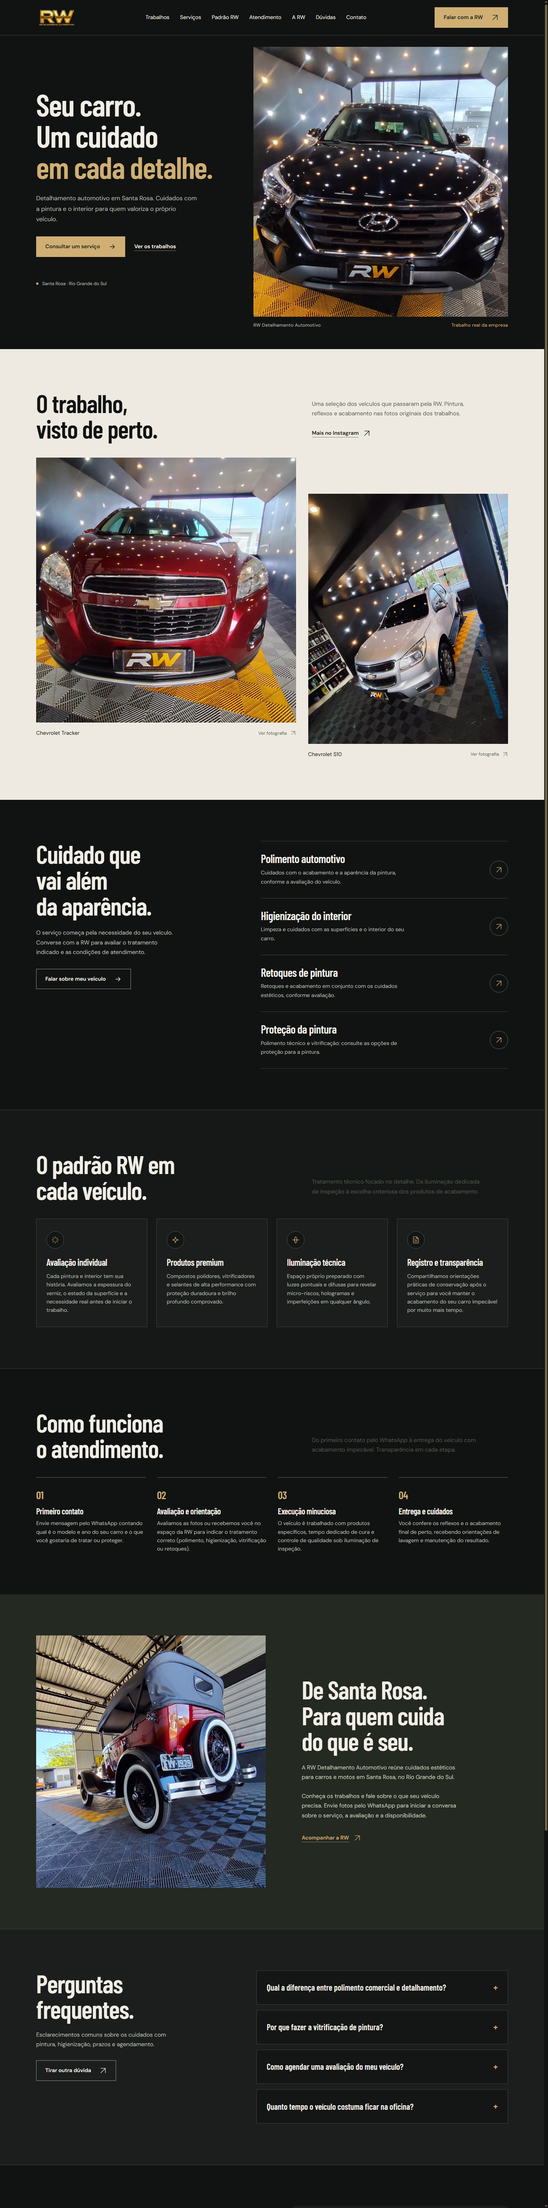
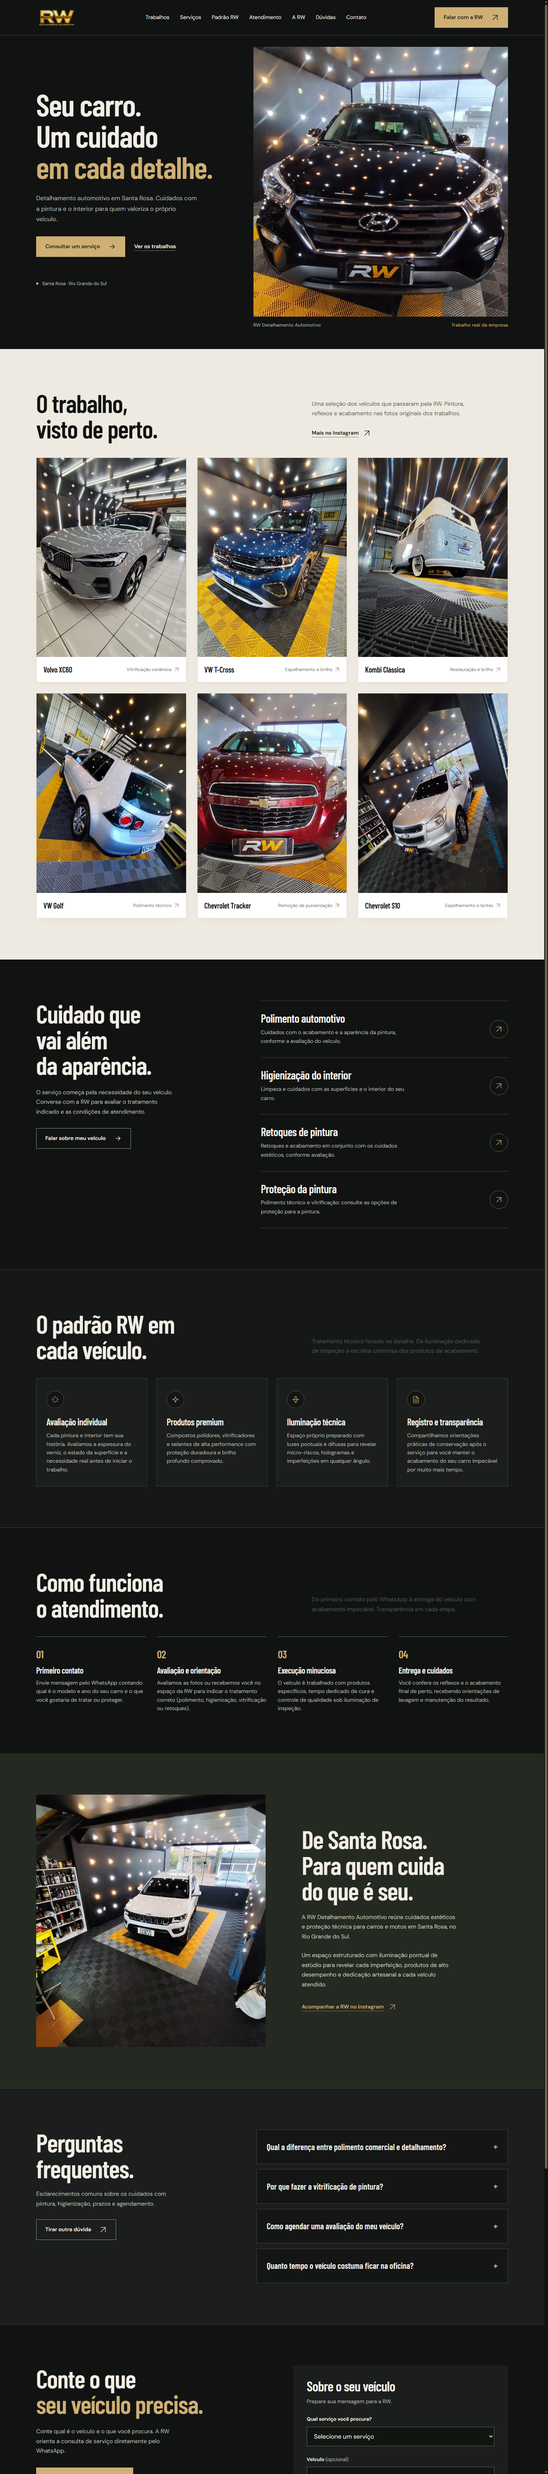
Incorpora as 5 novas fotografias reais do espaco e veiculos na galeria e na secao sobre

diff --git a/assets/site.css b/assets/site.css
@@ -6,7 +6,7 @@
 *{box-sizing:border-box}html{scroll-behavior:smooth;scroll-padding-top:100px;color-scheme:dark}body{margin:0;background:var(--ink);color:var(--text);font:16px/1.7 'DM Sans',Arial,sans-serif;-webkit-font-smoothing:antialiased}a{color:inherit;text-decoration:none}button,input,textarea,select{font:inherit}button,a,input,select,textarea{-webkit-tap-highlight-color:transparent}button{cursor:pointer}img{display:block;width:100%;height:auto}figure,p,h1,h2,h3{margin:0}h1,h2,h3{font-family:'Barlow Condensed',sans-serif;font-weight:600;line-height:1.02;letter-spacing:-.02em;text-wrap:balance}h1{font-size:clamp(54px,5.6vw,88px)}h2{font-size:clamp(42px,4.6vw,68px)}h3{font-size:30px}em{font-style:normal;color:var(--gold)}p{max-width:65ch}.wrap{width:min(var(--measure),calc(100% - 80px));margin-inline:auto}.section{padding-block:var(--space-section)}.icon{width:20px;height:20px;fill:none;stroke:currentColor;stroke-width:1.6;stroke-linecap:round;stroke-linejoin:round;flex-shrink:0}.btn{display:inline-flex;align-items:center;justify-content:center;gap:22px;min-height:52px;padding:14px 23px;font-size:14px;font-weight:600;border:1px solid transparent;transition:background .2s,color .2s}.btn-gold{background:var(--gold);color:#161b16}.btn-gold:hover{background:#e3c691}.btn-outline{border-color:#8f998b;color:var(--text)}.btn-outline:hover{background:var(--text);color:var(--ink)}.text-link{display:inline-flex;align-items:center;gap:12px;min-height:44px;font-size:14px;font-weight:600;text-decoration:underline;text-decoration-color:#8a795a;text-underline-offset:6px}.text-link:hover{text-decoration-color:currentColor}a:focus-visible,button:focus-visible,input:focus-visible,select:focus-visible,textarea:focus-visible{outline:3px solid var(--gold);outline-offset:5px}::selection{background:var(--gold);color:var(--ink)}input,textarea{caret-color:var(--gold)}html{scrollbar-color:#706850 var(--ink);scrollbar-width:thin}.skip-link{position:fixed;top:10px;left:16px;z-index:300;background:var(--paper);color:var(--ink);padding:12px 18px;transform:translateY(-160%)}.skip-link:focus{transform:translateY(0)}
 .nav{position:sticky;top:0;z-index:100;background:var(--ink);border-bottom:1px solid var(--line)}.nav-inner{height:92px;display:flex;align-items:center;justify-content:space-between;gap:30px}.brand{display:flex;align-items:center;gap:15px;flex-shrink:0}.brandlogo{font:800 italic 44px/.85 'Barlow Condensed',sans-serif;letter-spacing:-.03em;color:var(--gold)}.brandword{font-size:12px;line-height:1.4;font-weight:600;letter-spacing:.12em;text-transform:uppercase}.brand-image{height:54px;width:auto;max-width:130px;object-fit:contain}.links{display:flex;align-items:center;gap:28px;font-size:14px}.links a{padding-block:14px}.links a:hover{color:var(--gold)}.menu{display:none;border:1px solid #60685d;color:var(--text);background:none;width:46px;height:46px;align-items:center;justify-content:center}
 .hero{padding:30px 0 52px}.hero-layout{display:grid;grid-template-columns:.88fr 1.12fr;align-items:center;gap:45px}.hero-copy{padding-block:35px}.hero-copy>p{margin-top:28px;color:var(--muted);max-width:39ch}.actions{display:flex;gap:24px;align-items:center;flex-wrap:wrap;margin-top:32px}.hero-location{margin-top:60px;color:var(--muted);font-size:12px;display:flex;gap:10px;align-items:center}.location-dot{width:6px;height:6px;background:var(--gold);border-radius:50%}.hero-photo{position:relative}.hero-photo img{aspect-ratio:1/1.06;object-fit:cover;object-position:center}.hero-photo figcaption{display:flex;justify-content:space-between;gap:20px;font-size:12px;letter-spacing:.03em;padding-top:12px;color:var(--muted)}.hero-photo figcaption span{color:var(--gold)}
-.work{background:var(--paper);color:var(--ink);color-scheme:light}.work a:focus-visible{outline-color:#80602e}.section-head{display:grid;grid-template-columns:1fr .8fr;align-items:end;gap:80px;margin-bottom:42px}.section-head p{color:#535c51;font-size:15px;max-width:43ch;margin-bottom:16px}.work-grid{display:grid;grid-template-columns:1.13fr .87fr;gap:32px;align-items:start}.work-grid figure:nth-child(2){margin-top:95px}.work-grid img{aspect-ratio:1/1.02;object-fit:cover}.work-grid figure:nth-child(2) img{aspect-ratio:4/5}.work-grid a{display:block;overflow:hidden}.work-grid a:hover img{opacity:.92}.work-grid figcaption{display:flex;align-items:center;justify-content:space-between;gap:16px;padding-top:16px;font-size:14px}.work-grid figcaption>span:last-child{font-size:12px;display:flex;align-items:center;gap:9px;color:#535c51}.work-grid figcaption .icon{width:15px;height:15px}
+.work{background:var(--paper);color:var(--ink);color-scheme:light}.work a:focus-visible{outline-color:#80602e}.section-head{display:grid;grid-template-columns:1fr .8fr;align-items:end;gap:80px;margin-bottom:42px}.section-head p{color:#535c51;font-size:15px;max-width:43ch;margin-bottom:16px}.work-grid{display:grid;grid-template-columns:repeat(3,1fr);gap:28px;align-items:start}.work-card{background:#fff;border:1px solid #ddd7ca;box-shadow:0 8px 24px -12px rgba(0,0,0,.08);transition:transform .2s,box-shadow .2s;display:flex;flex-direction:column}.work-card:hover{transform:translateY(-4px);box-shadow:0 16px 36px -12px rgba(0,0,0,.14)}.work-card img{aspect-ratio:3/4;object-fit:cover;width:100%}.work-card a{display:block;overflow:hidden}.work-card a:hover img{transform:scale(1.02);transition:transform .3s ease}.work-card figcaption{display:flex;align-items:center;justify-content:space-between;gap:12px;padding:16px 18px;font-size:14px;background:#fff}.work-card figcaption>span:first-child{font-weight:600;color:var(--ink);font-family:'Barlow Condensed',sans-serif;font-size:20px;letter-spacing:-.01em}.work-card figcaption>span:last-child{font-size:12px;display:flex;align-items:center;gap:6px;color:#6b7268}.work-card figcaption .icon{width:14px;height:14px;color:#80602e}
 .services-layout{display:grid;grid-template-columns:.86fr 1.14fr;gap:100px}.services-intro{align-self:start}.services-intro p{color:var(--muted);margin-block:26px 30px;max-width:35ch;font-size:15px}.service{display:flex;align-items:center;justify-content:space-between;gap:28px;border-top:1px solid var(--line);padding:30px 0}.service:last-child{border-bottom:1px solid var(--line)}.service h3{font-size:30px;margin-bottom:10px}.service p{font-size:14px;color:var(--muted);max-width:43ch}.service>a{display:flex;align-items:center;justify-content:center;min-width:48px;height:48px;border:1px solid #5e675b;border-radius:50%;color:var(--gold);transition:background .2s}.service>a:hover{background:var(--gold);color:var(--ink)}
 .diferenciais{background:#151816;border-top:1px solid var(--line);border-bottom:1px solid var(--line)}.diferenciais-grid{display:grid;grid-template-columns:repeat(4,1fr);gap:24px}.diff-card{background:var(--surface);border:1px solid var(--line);padding:32px 26px;display:flex;flex-direction:column;transition:border-color .2s,transform .2s}.diff-card:hover{border-color:var(--gold);transform:translateY(-3px)}.diff-icon{width:46px;height:46px;border:1px solid #4a5347;border-radius:50%;display:flex;align-items:center;justify-content:center;color:var(--gold);margin-bottom:24px;background:#131614}.diff-card h3{font-size:24px;margin-bottom:12px;color:var(--text)}.diff-card p{font-size:14px;color:var(--muted);line-height:1.6}
 .process{background:var(--ink)}.process-track{display:grid;grid-template-columns:repeat(4,1fr);gap:30px;position:relative;margin-top:20px}.process-step{border-top:2px solid var(--line);padding-top:28px;position:relative;transition:border-color .2s}.process-step:hover{border-top-color:var(--gold)}.process-num{font:800 28px 'Barlow Condensed',sans-serif;color:var(--gold);display:block;margin-bottom:14px;letter-spacing:-.02em}.process-body h3{font-size:22px;margin-bottom:10px}.process-body p{font-size:14px;color:var(--muted);line-height:1.6}
@@ -15,8 +15,8 @@
 .contact-layout{display:grid;grid-template-columns:1fr 1fr;gap:110px;align-items:start}.contact-copy>p{margin-top:26px;color:var(--muted);max-width:38ch;font-size:15px}.contact-copy>.btn{margin-top:30px}.contact-copy address{font-style:normal;display:grid;gap:16px;margin-top:42px;font-size:14px}.contact-copy address>a:first-child{font-size:20px}.contact-copy address span{color:var(--muted)}.contact-copy address .text-link{justify-self:start}.form{padding:36px;background:var(--surface)}.form h3{font-size:36px}.form>p{color:var(--muted);font-size:14px;margin-top:10px}.form label{display:block;font-size:13px;font-weight:600;margin:24px 0 8px}.form label span{font-weight:400;color:var(--muted)}.form input,.form textarea,.form select{width:100%;border:1px solid #626b5d;border-radius:0;background:#111512;color:var(--text);padding:13px 14px;min-height:50px}.form ::placeholder{color:#a6afa2;opacity:1}.form textarea{min-height:115px;resize:vertical}.form .btn{width:100%;margin-top:23px}.form .form-note{font-size:12px;line-height:1.6;margin-top:16px}
 .footer{border-top:1px solid var(--line);padding:55px 0 20px}.footer-grid{display:grid;grid-template-columns:2fr 1fr 1fr;gap:35px;align-items:start}.footer-grid h3{font:600 12px 'DM Sans',sans-serif;margin-bottom:15px;color:var(--gold)}.footer-grid>div>a{display:block;min-height:36px;font-size:13px;color:var(--muted)}.footer-grid>div>a:hover{color:var(--text)}.footer-bottom{display:flex;justify-content:space-between;gap:24px;margin-top:50px;padding-top:20px;border-top:1px solid var(--line);font-size:12px;color:var(--muted)}.mobile-cta{display:none}
 @media(min-width:1700px){.hero-layout{gap:70px}.hero-photo img{aspect-ratio:1/1}.hero{padding-block:40px 65px}}
-@media(max-width:1100px){.wrap{width:calc(100% - 48px)}.nav-inner{gap:20px}.links{gap:20px}.nav-cta{padding-inline:16px}.hero-layout{gap:30px}.hero h1{font-size:clamp(52px,6vw,72px)}.hero-copy>p{font-size:14px}.actions{gap:14px}.hero-location{margin-top:35px}.services-layout,.about-layout{gap:55px}.contact-layout{gap:55px}.section-head{gap:45px}.diferenciais-grid{grid-template-columns:repeat(2,1fr);gap:20px}.process-track{grid-template-columns:repeat(2,1fr);gap:24px}.faq-layout{gap:50px}}
-@media(max-width:800px){html{scroll-padding-top:88px}.nav-inner{height:76px}.menu{display:flex}.nav-cta{margin-left:auto;font-size:12px;min-height:44px}.brand-image{height:46px;max-width:110px}.brandword{font-size:12px}.links{display:none;position:absolute;inset:100% 0 auto;background:var(--ink);padding:18px 24px 24px;border-bottom:1px solid var(--line)}.links.open{display:grid;gap:0}.links a{padding-block:14px;border-bottom:1px solid var(--line)}.hero{padding-top:25px}.hero-layout{grid-template-columns:1fr 1fr;gap:24px}.hero h1{font-size:clamp(46px,6.4vw,60px)}.hero-photo img{aspect-ratio:3/4}.hero-photo figcaption{display:none}.hero-copy{padding-block:12px}.actions{display:grid;justify-items:start}.hero-location{margin-top:25px;font-size:12px}.hero-copy>p{margin-top:20px}.section-head{grid-template-columns:1fr 1fr;gap:30px}.services-layout{gap:40px;grid-template-columns:.85fr 1.15fr}.services-intro h2{font-size:44px}.about-layout{gap:40px}.contact-layout{gap:35px}.form{padding:25px}.contact h2{font-size:52px}.faq-layout{grid-template-columns:1fr;gap:35px}}
-@media(max-width:600px){.wrap{width:calc(100% - 36px)}.nav-inner{gap:14px}.brandword{font-size:12px}.brandlogo{font-size:38px}.brand{gap:10px}.brand-image{height:42px;max-width:100px}.nav-cta{display:none}.menu{margin-left:auto}.hero{padding-top:25px;padding-bottom:38px}.hero-layout{grid-template-columns:1fr;gap:28px}.hero-copy{padding:10px 0 0}.hero h1{font-size:clamp(52px,12vw,72px);max-width:13ch}.hero-copy>p{max-width:36ch;font-size:15px;margin-top:22px}.hero .actions{display:flex;gap:22px;margin-top:25px}.hero .btn{padding-inline:18px;gap:14px;font-size:13px}.hero-location{margin-top:26px}.hero-photo img{aspect-ratio:1/1;object-position:center}.hero-photo figcaption{display:flex;font-size:12px;gap:10px}.section-head{grid-template-columns:1fr;gap:24px;margin-bottom:30px}.section-head p{margin-bottom:7px}.work-grid{grid-template-columns:1fr;gap:34px}.work-grid figure:nth-child(2){margin-top:0}.work-grid img{aspect-ratio:1/1}.work-grid figure:nth-child(2) img{aspect-ratio:4/5;max-height:none}.work-grid figcaption{padding-top:12px;font-size:13px}.services-layout,.about-layout,.contact-layout,.faq-layout{grid-template-columns:1fr;gap:35px}.services-intro h2{font-size:48px}.services-intro h2 br{display:none}.services-intro p{max-width:42ch;margin-block:22px}.service{padding-block:25px}.service h3{font-size:28px}.service p{font-size:14px}.diferenciais-grid{grid-template-columns:1fr;gap:16px}.diff-card{padding:26px 22px}.diff-card h3{font-size:22px}.process-track{grid-template-columns:1fr;gap:20px}.process-step{padding-top:20px}.about-photo img{aspect-ratio:4/3;object-position:center 55%}.about-copy p{max-width:42ch}.faq-intro h2{font-size:48px}.faq-intro h2 br{display:none}.faq-item summary{font-size:20px;padding:18px 20px}.faq-answer{padding:0 20px 20px}.contact h2{font-size:54px}.contact-copy address{margin-top:30px}.form{padding:25px 20px}.footer{padding-top:38px;padding-bottom:98px}.footer-grid{grid-template-columns:1fr 1fr;gap:30px}.footer-grid>.brand{grid-column:1/-1}.footer-bottom{display:grid;gap:10px;margin-top:30px;font-size:12px}.mobile-cta{display:flex;position:fixed;inset:auto 0 0;z-index:90;background:var(--ink);border-top:1px solid var(--line);padding:9px 14px calc(9px + env(safe-area-inset-bottom));gap:9px}.mobile-cta .btn{flex:1;min-height:46px;padding:11px 12px;font-size:13px}.mobile-cta .call{display:flex;align-items:center;justify-content:center;width:48px;border:1px solid #687160;color:var(--gold)}}
+@media(max-width:1100px){.wrap{width:calc(100% - 48px)}.nav-inner{gap:20px}.links{gap:20px}.nav-cta{padding-inline:16px}.hero-layout{gap:30px}.hero h1{font-size:clamp(52px,6vw,72px)}.hero-copy>p{font-size:14px}.actions{gap:14px}.hero-location{margin-top:35px}.services-layout,.about-layout{gap:55px}.contact-layout{gap:55px}.section-head{gap:45px}.work-grid{grid-template-columns:repeat(2,1fr);gap:24px}.diferenciais-grid{grid-template-columns:repeat(2,1fr);gap:20px}.process-track{grid-template-columns:repeat(2,1fr);gap:24px}.faq-layout{gap:50px}}
+@media(max-width:800px){html{scroll-padding-top:88px}.nav-inner{height:76px}.menu{display:flex}.nav-cta{margin-left:auto;font-size:12px;min-height:44px}.brand-image{height:46px;max-width:110px}.brandword{font-size:12px}.links{display:none;position:absolute;inset:100% 0 auto;background:var(--ink);padding:18px 24px 24px;border-bottom:1px solid var(--line)}.links.open{display:grid;gap:0}.links a{padding-block:14px;border-bottom:1px solid var(--line)}.hero{padding-top:25px}.hero-layout{grid-template-columns:1fr 1fr;gap:24px}.hero h1{font-size:clamp(46px,6.4vw,60px)}.hero-photo img{aspect-ratio:3/4}.hero-photo figcaption{display:none}.hero-copy{padding-block:12px}.actions{display:grid;justify-items:start}.hero-location{margin-top:25px;font-size:12px}.hero-copy>p{margin-top:20px}.section-head{grid-template-columns:1fr 1fr;gap:30px}.work-grid{grid-template-columns:repeat(2,1fr);gap:20px}.services-layout{gap:40px;grid-template-columns:.85fr 1.15fr}.services-intro h2{font-size:44px}.about-layout{gap:40px}.contact-layout{gap:35px}.form{padding:25px}.contact h2{font-size:52px}.faq-layout{grid-template-columns:1fr;gap:35px}}
+@media(max-width:600px){.wrap{width:calc(100% - 36px)}.nav-inner{gap:14px}.brandword{font-size:12px}.brandlogo{font-size:38px}.brand{gap:10px}.brand-image{height:42px;max-width:100px}.nav-cta{display:none}.menu{margin-left:auto}.hero{padding-top:25px;padding-bottom:38px}.hero-layout{grid-template-columns:1fr;gap:28px}.hero-copy{padding:10px 0 0}.hero h1{font-size:clamp(52px,12vw,72px);max-width:13ch}.hero-copy>p{max-width:36ch;font-size:15px;margin-top:22px}.hero .actions{display:flex;gap:22px;margin-top:25px}.hero .btn{padding-inline:18px;gap:14px;font-size:13px}.hero-location{margin-top:26px}.hero-photo img{aspect-ratio:1/1;object-position:center}.hero-photo figcaption{display:flex;font-size:12px;gap:10px}.section-head{grid-template-columns:1fr;gap:24px;margin-bottom:30px}.section-head p{margin-bottom:7px}.work-grid{grid-template-columns:1fr;gap:24px}.work-card img{aspect-ratio:4/3}.work-card figcaption{padding:14px 16px;font-size:13px}.services-layout,.about-layout,.contact-layout,.faq-layout{grid-template-columns:1fr;gap:35px}.services-intro h2{font-size:48px}.services-intro h2 br{display:none}.services-intro p{max-width:42ch;margin-block:22px}.service{padding-block:25px}.service h3{font-size:28px}.service p{font-size:14px}.diferenciais-grid{grid-template-columns:1fr;gap:16px}.diff-card{padding:26px 22px}.diff-card h3{font-size:22px}.process-track{grid-template-columns:1fr;gap:20px}.process-step{padding-top:20px}.about-photo img{aspect-ratio:4/3;object-position:center 55%}.about-copy p{max-width:42ch}.faq-intro h2{font-size:48px}.faq-intro h2 br{display:none}.faq-item summary{font-size:20px;padding:18px 20px}.faq-answer{padding:0 20px 20px}.contact h2{font-size:54px}.contact-copy address{margin-top:30px}.form{padding:25px 20px}.footer{padding-top:38px;padding-bottom:98px}.footer-grid{grid-template-columns:1fr 1fr;gap:30px}.footer-grid>.brand{grid-column:1/-1}.footer-bottom{display:grid;gap:10px;margin-top:30px;font-size:12px}.mobile-cta{display:flex;position:fixed;inset:auto 0 0;z-index:90;background:var(--ink);border-top:1px solid var(--line);padding:9px 14px calc(9px + env(safe-area-inset-bottom));gap:9px}.mobile-cta .btn{flex:1;min-height:46px;padding:11px 12px;font-size:13px}.mobile-cta .call{display:flex;align-items:center;justify-content:center;width:48px;border:1px solid #687160;color:var(--gold)}}
 @media(prefers-reduced-motion:reduce){html{scroll-behavior:auto}*,*::before,*::after{animation:none!important;transition:none!important}}
 

diff --git a/index.html b/index.html
@@ -44,8 +44,12 @@
     <div class="wrap">
       <div class="section-head"><h2>O trabalho,<br>visto de perto.</h2><div><p>Uma seleção dos veículos que passaram pela RW. Pintura, reflexos e acabamento nas fotos originais dos trabalhos.</p><a class="text-link" href="https://www.instagram.com/ricaliwildner/" target="_blank" rel="noopener noreferrer">Mais no Instagram <svg class="icon" aria-hidden="true" viewBox="0 0 24 24"><path d="M5 19 19 5M5 5h14v14"/></svg></a></div></div>
       <div class="work-grid">
-        <figure class="work-main"><a href="assets/images/trabalho-tracker.webp" target="_blank" rel="noopener" aria-label="Abrir foto do trabalho na Chevrolet Tracker"><img src="assets/images/trabalho-tracker.webp" srcset="assets/images/trabalho-tracker-720.webp 720w, assets/images/trabalho-tracker.webp 1440w" sizes="(max-width: 600px) calc(100vw - 36px), 650px" alt="Chevrolet Tracker em trabalho divulgado pela RW" width="1440" height="1440" loading="lazy"></a><figcaption><span>Chevrolet Tracker</span><span>Ver fotografia <svg class="icon" aria-hidden="true" viewBox="0 0 24 24"><path d="M5 19 19 5M5 5h14v14"/></svg></span></figcaption></figure>
-        <figure class="work-small"><a href="assets/images/trabalho-s10.webp" target="_blank" rel="noopener" aria-label="Abrir foto do trabalho na Chevrolet S10"><img src="assets/images/trabalho-s10.webp" srcset="assets/images/trabalho-s10-720.webp 720w, assets/images/trabalho-s10.webp 1440w" sizes="(max-width: 600px) calc(100vw - 36px), 650px" alt="Chevrolet S10 em trabalho divulgado pela RW" width="1440" height="1920" loading="lazy"></a><figcaption><span>Chevrolet S10</span><span>Ver fotografia <svg class="icon" aria-hidden="true" viewBox="0 0 24 24"><path d="M5 19 19 5M5 5h14v14"/></svg></span></figcaption></figure>
+        <figure class="work-card"><a href="assets/images/trabalho-volvo.webp" target="_blank" rel="noopener" aria-label="Abrir foto da vitrificação no Volvo XC60"><img src="assets/images/trabalho-volvo.webp" srcset="assets/images/trabalho-volvo-720.webp 720w, assets/images/trabalho-volvo.webp 1440w" sizes="(max-width: 600px) calc(100vw - 36px), (max-width: 1100px) 50vw, 400px" alt="Volvo XC60 com vitrificação cerâmica e reflexos perfeitos sob iluminação técnica" width="768" height="1024" loading="lazy"></a><figcaption><span>Volvo XC60</span><span>Vitrificação cerâmica <svg class="icon" aria-hidden="true" viewBox="0 0 24 24"><path d="M5 19 19 5M5 5h14v14"/></svg></span></figcaption></figure>
+        <figure class="work-card"><a href="assets/images/trabalho-tcross.webp" target="_blank" rel="noopener" aria-label="Abrir foto do espelhamento no VW T-Cross azul"><img src="assets/images/trabalho-tcross.webp" srcset="assets/images/trabalho-tcross-720.webp 720w, assets/images/trabalho-tcross.webp 1440w" sizes="(max-width: 600px) calc(100vw - 36px), (max-width: 1100px) 50vw, 400px" alt="Volkswagen T-Cross azul metálico com espelhamento sob luzes pontuais de inspeção" width="768" height="1024" loading="lazy"></a><figcaption><span>VW T-Cross</span><span>Espelhamento e brilho <svg class="icon" aria-hidden="true" viewBox="0 0 24 24"><path d="M5 19 19 5M5 5h14v14"/></svg></span></figcaption></figure>
+        <figure class="work-card"><a href="assets/images/trabalho-kombi.webp" target="_blank" rel="noopener" aria-label="Abrir foto da restauração e polimento na Kombi clássica"><img src="assets/images/trabalho-kombi.webp" srcset="assets/images/trabalho-kombi-720.webp 720w, assets/images/trabalho-kombi.webp 1440w" sizes="(max-width: 600px) calc(100vw - 36px), (max-width: 1100px) 50vw, 400px" alt="Kombi clássica em dois tons com acabamento impecável no espaço da RW" width="768" height="1024" loading="lazy"></a><figcaption><span>Kombi Clássica</span><span>Restauração e brilho <svg class="icon" aria-hidden="true" viewBox="0 0 24 24"><path d="M5 19 19 5M5 5h14v14"/></svg></span></figcaption></figure>
+        <figure class="work-card"><a href="assets/images/trabalho-golf.webp" target="_blank" rel="noopener" aria-label="Abrir foto do polimento técnico no VW Golf prata"><img src="assets/images/trabalho-golf.webp" srcset="assets/images/trabalho-golf-720.webp 720w, assets/images/trabalho-golf.webp 1440w" sizes="(max-width: 600px) calc(100vw - 36px), (max-width: 1100px) 50vw, 400px" alt="Volkswagen Golf prata trabalhado com detalhamento técnico na oficina" width="768" height="1024" loading="lazy"></a><figcaption><span>VW Golf</span><span>Polimento técnico <svg class="icon" aria-hidden="true" viewBox="0 0 24 24"><path d="M5 19 19 5M5 5h14v14"/></svg></span></figcaption></figure>
+        <figure class="work-card"><a href="assets/images/trabalho-tracker.webp" target="_blank" rel="noopener" aria-label="Abrir foto do trabalho na Chevrolet Tracker"><img src="assets/images/trabalho-tracker.webp" srcset="assets/images/trabalho-tracker-720.webp 720w, assets/images/trabalho-tracker.webp 1440w" sizes="(max-width: 600px) calc(100vw - 36px), (max-width: 1100px) 50vw, 400px" alt="Chevrolet Tracker vermelha em trabalho divulgado pela RW" width="1440" height="1440" loading="lazy"></a><figcaption><span>Chevrolet Tracker</span><span>Remoção de pulverização <svg class="icon" aria-hidden="true" viewBox="0 0 24 24"><path d="M5 19 19 5M5 5h14v14"/></svg></span></figcaption></figure>
+        <figure class="work-card"><a href="assets/images/trabalho-s10.webp" target="_blank" rel="noopener" aria-label="Abrir foto do trabalho na Chevrolet S10"><img src="assets/images/trabalho-s10.webp" srcset="assets/images/trabalho-s10-720.webp 720w, assets/images/trabalho-s10.webp 1440w" sizes="(max-width: 600px) calc(100vw - 36px), (max-width: 1100px) 50vw, 400px" alt="Chevrolet S10 em trabalho divulgado pela RW" width="1440" height="1920" loading="lazy"></a><figcaption><span>Chevrolet S10</span><span>Espelhamento e lentes <svg class="icon" aria-hidden="true" viewBox="0 0 24 24"><path d="M5 19 19 5M5 5h14v14"/></svg></span></figcaption></figure>
       </div>
     </div>
   </section>
@@ -139,7 +143,7 @@
       </div>
     </div>
   </section>
-  <section class="about section" id="sobre"><div class="wrap about-layout"><figure class="about-photo"><img src="assets/images/espaco-rw.webp" srcset="assets/images/espaco-rw-720.webp 720w, assets/images/espaco-rw.webp 1440w" sizes="(max-width: 600px) calc(100vw - 36px), 650px" alt="Automóvel clássico vermelho no espaço da RW após trabalho de retoque, polimento e higienização" width="1440" height="1917" loading="lazy"></figure><div class="about-copy"><h2>De Santa Rosa. <br>Para quem cuida <br>do que é seu.</h2><p>A RW Detalhamento Automotivo reúne cuidados estéticos para carros e motos em Santa Rosa, no Rio Grande do Sul.</p><p>Conheça os trabalhos e fale sobre o que seu veículo precisa. Envie fotos pelo WhatsApp para iniciar a conversa sobre o serviço, a avaliação e a disponibilidade.</p><a class="text-link" href="https://www.instagram.com/ricaliwildner/" target="_blank" rel="noopener noreferrer">Acompanhar a RW <svg class="icon" aria-hidden="true" viewBox="0 0 24 24"><path d="M5 19 19 5M5 5h14v14"/></svg></a></div></div></section>
+  <section class="about section" id="sobre"><div class="wrap about-layout"><figure class="about-photo"><img src="assets/images/espaco-oficina-jeep.webp" srcset="assets/images/espaco-oficina-jeep-720.webp 720w, assets/images/espaco-oficina-jeep.webp 1440w" sizes="(max-width: 600px) calc(100vw - 36px), 650px" alt="Espaço exclusivo da RW Detalhamento com iluminação técnica de inspeção, produtos especializados e Jeep Compass branco em tratamento" width="768" height="1024" loading="lazy"></figure><div class="about-copy"><h2>De Santa Rosa. <br>Para quem cuida <br>do que é seu.</h2><p>A RW Detalhamento Automotivo reúne cuidados estéticos e proteção técnica para carros e motos em Santa Rosa, no Rio Grande do Sul.</p><p>Um espaço estruturado com iluminação pontual de estúdio para revelar cada imperfeição, produtos de alto desempenho e dedicação artesanal a cada veículo atendido.</p><a class="text-link" href="https://www.instagram.com/ricaliwildner/" target="_blank" rel="noopener noreferrer">Acompanhar a RW no Instagram <svg class="icon" aria-hidden="true" viewBox="0 0 24 24"><path d="M5 19 19 5M5 5h14v14"/></svg></a></div></div></section>
   <section class="faq section" id="duvidas">
     <div class="wrap faq-layout">
       <div class="faq-intro">
